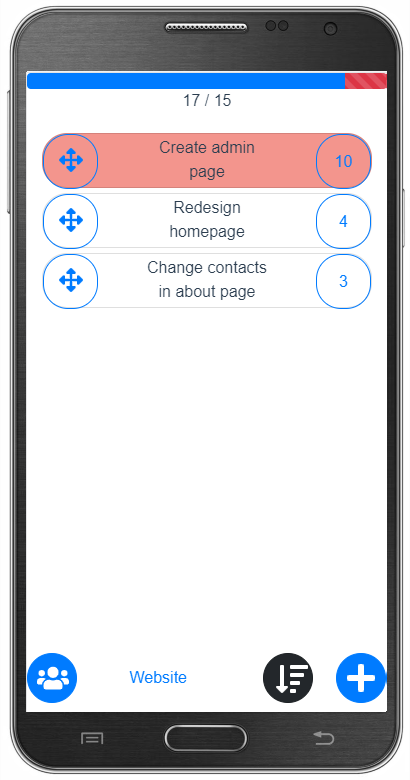
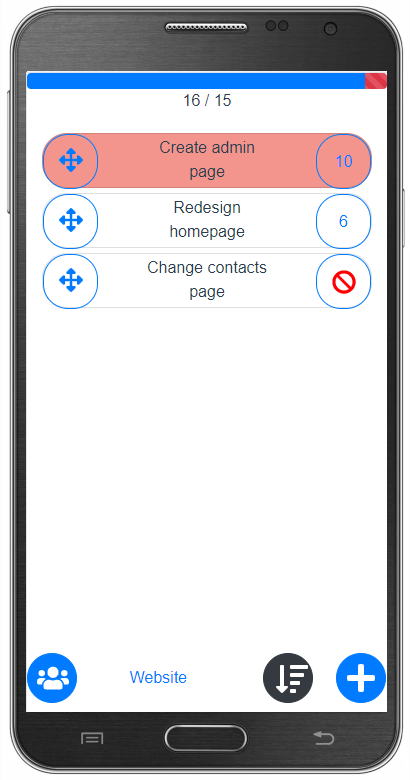
allow on/off state on cards

diff --git a/src/components/Card.vue b/src/components/Card.vue
@@ -6,25 +6,37 @@
                   <icon name="arrows-alt" scale="1.5" />
               </div>
           </div>
-          <div class="col-6 card-body vertical-align">
+          <div class="col-6 card-body vertical-align" @click="gotoEditCard()">
               <div>{{card.name}}</div>
           </div>
           <div class="col-3">
-              <router-link :to="{ name: 'edit-card', params: {card: card} }"
+              <button @click="switchCard()"
                            class="card-side card-edit card-workload btn btn-outline-primary">
-                  {{card.workload}}
-              </router-link>
+                  <icon v-if="card.out" scale="1.5" class="card-out" name="ban" color="red" />
+                  <span v-else>{{card.workload}}</span>
+              </button>
           </div>
       </div>
   </div>
 </template>
 
 <script>
+import { mapActions } from 'vuex'
+
 export default {
   name: 'card',
   props: ['card'],
   data () {
     return {}
+  },
+  methods: {
+    ...mapActions(['switchCardInOut']),
+    gotoEditCard () {
+      this.$router.push({name: 'edit-card', params: {card: this.card}})
+    },
+    switchCard () {
+      this.switchCardInOut(this.card.id)
+    }
   }
 }
 </script>
@@ -48,13 +60,14 @@ export default {
         }
         .card-body {
             height: 51px;
+            cursor: pointer;
         }
         .card-handle {
             left: 0;
         }
         .card-edit {
             right: 0;
-            padding-top: 15px;
+            padding-top: 7px;
         }
     }
 </style>

diff --git a/src/store/index.js b/src/store/index.js
@@ -31,7 +31,8 @@ const defaultCard = {
   id: 0,
   name: '',
   color: cardColors[0],
-  workload: 0
+  workload: 0,
+  out: false
 }
 
 const defaultResource = {
@@ -141,6 +142,13 @@ export default new Vuex.Store({
 
       commit(types.SET_CARD, {cardData: cardData, cardIndex: cardIndex, projectIndex: projectIndex})
     },
+    switchCardInOut ({getters, commit}, cardId) {
+      let projectIndex = getters.getProjectIndex()
+      if (projectIndex < 0) return
+      let cardIndex = getters.getCardIndex(cardId)
+
+      commit(types.SWITCH_CARD, {cardId: cardId, cardIndex: cardIndex, projectIndex: projectIndex})
+    },
     removeCard ({getters, commit}, cardId) {
       let projectIndex = getters.getProjectIndex()
       if (projectIndex < 0) return
@@ -232,6 +240,11 @@ export default new Vuex.Store({
       }
       project.order = 0
       project.lastCardChanged = payload.cardData.id
+    },
+    [types.SWITCH_CARD] (state, payload) {
+      let project = state.projects[payload.projectIndex]
+      project.cards[payload.cardIndex].out = !project.cards[payload.cardIndex].out
+      project.lastCardChanged = payload.cardId
     },
     [types.REMOVE_CARD] (state, payload) {
       let project = state.projects[payload.projectIndex]

diff --git a/src/components/CardEdit.vue b/src/components/CardEdit.vue
@@ -7,7 +7,7 @@
     <div class="form-group row">
       <label for="newName" class="control-label col-4 col-md-2">Name:</label>
       <div class="input-group col-8 col-md-10">
-        <input type="text" id="newName" class="form-control" maxlength="30"
+        <input type="text" id="newName" class="form-control" maxlength="22"
                ref="inputCardName"
                v-model="card.name" @keyup.enter="confirmEdit()"/>
       </div>

diff --git a/src/components/Workload.vue b/src/components/Workload.vue
@@ -26,6 +26,9 @@ export default {
     },
     totalWorkload () {
       return this.cards.reduce((total, card) => {
+        if (card.out) {
+          return total
+        }
         return total + card.workload
       }, 0)
     },

diff --git a/src/store/mutation-types.js b/src/store/mutation-types.js
@@ -1,4 +1,5 @@
 export const SET_CARD = 'SET_CARD'
+export const SWITCH_CARD = 'SWITCH_CARD'
 export const REMOVE_CARD = 'REMOVE_CARD'
 export const CHANGE_CARDS = 'CHANGE_CARDS'
 export const SET_RESOURCE = 'SET_RESOURCE'
